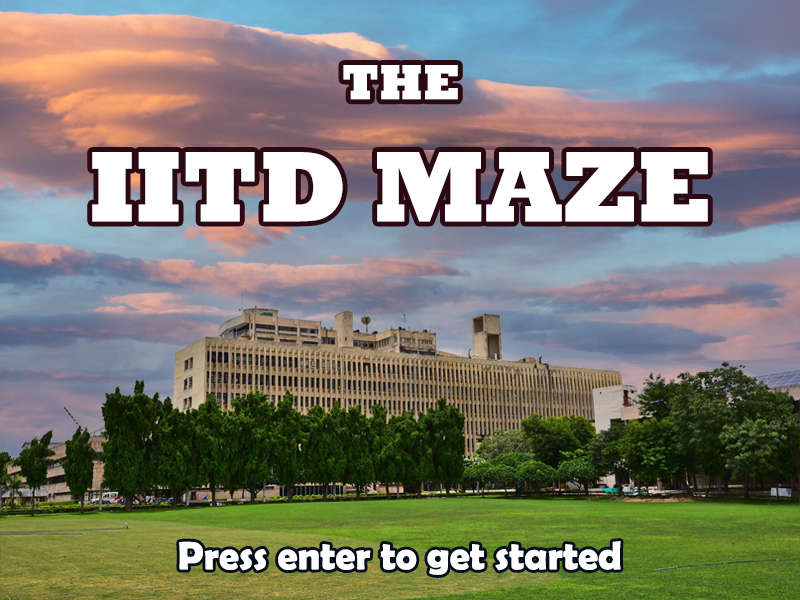
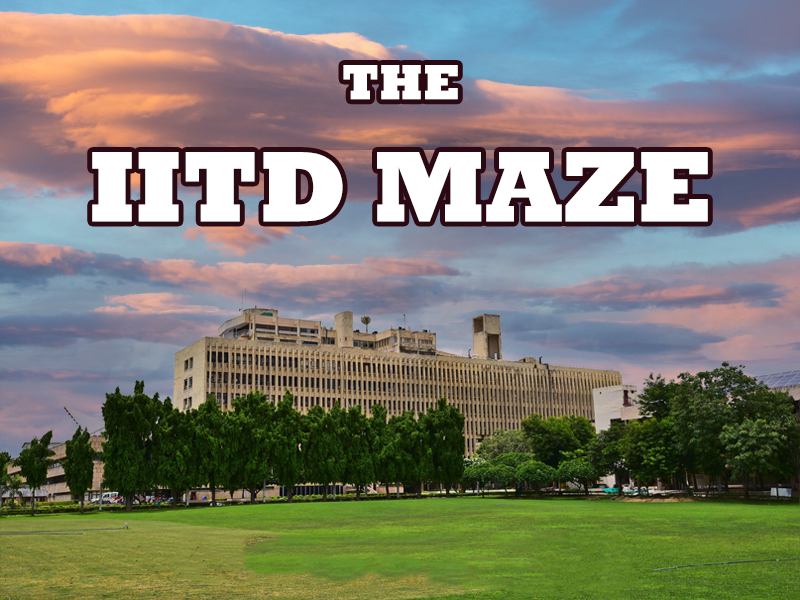
Updated info screens minor improvements

Changed region(s): [[0.2188, 0.87, 0.7812, 1.0]]

diff --git a/maze.cpp b/maze.cpp
@@ -92,7 +92,7 @@ ENetPeer *Maze::peer;
 
 SDL_Rect Maze::cam = {0, 0, gameW, gameH};
 
-SDL_Texture *w8page, *testing, *mazePage, *mazePage2, *instrPage, *infoPage, *gnrlPage;
+SDL_Texture *w8page, *testing, *mazePage, *mazePage2, *instrPage, *infoPage, *gnrlPage, *gnrlwithinfo;
 
 SDL_Rect strtsrc = {0, 0, gameW, gameH};
 
@@ -101,12 +101,11 @@ Tile *build_tiles[84][225];
 
 TTF_Font *abd, *blx, *krm, *prt;
 
-Mix_Chunk *yuluSound,*foodSound,*objSound;
+Mix_Chunk *yuluSound, *foodSound, *objSound;
 
 int game2state = 0;
 // Set number of stages
 int game2lastStage = 3;
-
 
 const char *playerHostel = "zanskar";
 int countFrames = 0;
@@ -245,6 +244,7 @@ void Maze::init(const char *title, int xpos, int ypos, int w, int h, bool fs)
     instrPage = Texture::LoadTexture("assets/general_image.png");
     infoPage = Texture::LoadTexture("assets/Info_Screen.png");
     gnrlPage = Texture::LoadTexture("assets/general_image.png");
+    gnrlwithinfo = Texture::LoadTexture("assets/gnrlwithinfo.png");
 
     // Reloading some more assets, not sure why this is required
     coin = Texture::LoadTexture("assets/coin.png");
@@ -258,10 +258,9 @@ void Maze::init(const char *title, int xpos, int ypos, int w, int h, bool fs)
     objSound = Mix_LoadWAV("sound/obj.wav");
     strtsrc = {0, 0, gameW, gameH};
 
-
     bgm = Mix_LoadMUS("sound/Waiting_Music.wav");
-    Mix_PlayMusic(bgm,-1);
-    Mix_VolumeMusic(MIX_MAX_VOLUME/4);
+    Mix_PlayMusic(bgm, -1);
+    Mix_VolumeMusic(MIX_MAX_VOLUME / 4);
 
     if (!am_i_server)
     {
@@ -354,6 +353,8 @@ void Maze::init(const char *title, int xpos, int ypos, int w, int h, bool fs)
             instrPgText.push_back("Once you are satisfied, press Enter to finish your attempt");
             instrPgText.push_back(questions[find1].first);
             instrPgText.push_back(questions[find2].first);
+            instrPgText.push_back("");
+            instrPgText.push_back("Press TAB to continue");
         }
         else if (gameMode == 2)
         {
@@ -393,7 +394,7 @@ void Maze::init(const char *title, int xpos, int ypos, int w, int h, bool fs)
     guard_vec[1] = &guard2;
     guard_vec[2] = &guard3;
     guard1.addComponent<PositionComponent>(182 * 16 * TileScale + 8 * TileScale, 16 * 16 * TileScale + 8 * TileScale);
-    //guard1.addComponent<PositionComponent>(167 * 16 * TileScale + 8 * TileScale, 6 * 16 * TileScale + 8 * TileScale);
+    // guard1.addComponent<PositionComponent>(167 * 16 * TileScale + 8 * TileScale, 6 * 16 * TileScale + 8 * TileScale);
     guard2.addComponent<PositionComponent>(64 * 16 * TileScale + 8 * TileScale, 32 * 16 * TileScale + 8 * TileScale);
     guard3.addComponent<PositionComponent>(87 * 16 * TileScale + 8 * TileScale, 46 * 16 * TileScale + 8 * TileScale);
     // guard1.getComponent<PositionComponent>().speed = 1;
@@ -431,8 +432,6 @@ void Maze::init(const char *title, int xpos, int ypos, int w, int h, bool fs)
 
     myState = 0;
     opState = 0;
-
-
 }
 
 float calcuatePoint()
@@ -486,10 +485,9 @@ void DisplayParameters(float stamina, float money, int x = 8 * gameW / 10, int y
     SDL_Rect bolt_dest = {x - 20 - 4, y - 4, 24, 24};
     SDL_Rect coin_dest = {x - 28, y + 25 - 8, 32, 32};
 
-    SDL_Texture *c = Texture::TextTexture(abd, std::to_string((int)(100*money)), 255, 255, 255);
-    SDL_Texture *s = Texture::TextTexture(abd, std::to_string((int)(100*stamina)), 255, 255, 255);
+    SDL_Texture *c = Texture::TextTexture(abd, std::to_string((int)(100 * money)), 255, 255, 255);
+    SDL_Texture *s = Texture::TextTexture(abd, std::to_string((int)(100 * stamina)), 255, 255, 255);
     int w, h;
-
 
     // icons
     Texture::Draw(bolt, bolt_src, bolt_dest, SDL_FLIP_NONE);
@@ -513,7 +511,6 @@ void DisplayParameters(float stamina, float money, int x = 8 * gameW / 10, int y
         SDL_Rect c_t1_dest = {x, y + 26, (16 * w) / h, 16};
         SDL_RenderCopy(Maze::renderer, c, NULL, &c_t1_dest);
     }
-
 }
 
 void DrawOverLayMap()
@@ -606,14 +603,14 @@ void Maze::handleEvents()
                 if (iit_bound[ypos][xpos] == 2)
                 {
                     // Yulu Stands
-                    Mix_PlayChannel(-1,yuluSound,0);
+                    Mix_PlayChannel(-1, yuluSound, 0);
                     std::cout << "ColYulu " << std::endl;
                     player1.getComponent<SpriteComponent>().hasyulu = true;
                 }
                 else if (iit_bound[ypos][xpos] == Loc["food"])
                 {
                     // Eating Shops
-                    Mix_PlayChannel(-1,foodSound,0);
+                    Mix_PlayChannel(-1, foodSound, 0);
 
                     std::cout << "ColEat " << std::endl;
                     player1.getComponent<SpriteComponent>().stamina = 1;
@@ -622,7 +619,7 @@ void Maze::handleEvents()
                 else if (iit_bound[ypos][xpos] == Loc[playerHostel] && (gameMode != 2 || Loc[playerHostel] != objectives[game2state].second))
                 {
                     // Eating in Mess
-                    Mix_PlayChannel(-1,foodSound,0);
+                    Mix_PlayChannel(-1, foodSound, 0);
 
                     std::cout << "ColEatMess " << std::endl;
                     player1.getComponent<SpriteComponent>().stamina = 1;
@@ -632,7 +629,7 @@ void Maze::handleEvents()
                 else if (gameMode == 2 && iit_bound[ypos][xpos] == objectives[game2state].second)
                 {
 
-                    Mix_PlayChannel(-1,objSound,0);
+                    Mix_PlayChannel(-1, objSound, 0);
 
                     // Game Mode 2 objectives
                     std::cout << "ColObjective " << std::endl;
@@ -660,7 +657,7 @@ void Maze::handleEvents()
                     std::cout << "ColYulu " << col << std::endl;
                     if (col)
                     {
-                        Mix_PlayChannel(-1,yuluSound,0);
+                        Mix_PlayChannel(-1, yuluSound, 0);
 
                         player1.getComponent<SpriteComponent>().hasyulu = false;
                     }
@@ -700,7 +697,7 @@ void Maze::recievePackets()
         switch (enet_event.type)
         {
         case ENET_EVENT_TYPE_RECEIVE:
-            //std::cout << "Hello  " << enet_event.packet->dataLength << std::endl;
+            // std::cout << "Hello  " << enet_event.packet->dataLength << std::endl;
             if (enet_event.packet->dataLength == 1)
             {
                 if (gameMode == 2)
@@ -719,8 +716,9 @@ void Maze::recievePackets()
                 player2.getComponent<SpriteComponent>().animated = true;
                 player2.getComponent<SpriteComponent>().speed = 100;
 
-                if (pgp->p2caught) {
-                    //std::cout << "Player Caught \n";
+                if (pgp->p2caught)
+                {
+                    // std::cout << "Player Caught \n";
                     if (player1.getComponent<SpriteComponent>().money > 200)
                     {
                         player1.getComponent<SpriteComponent>().money -= 200;
@@ -765,6 +763,8 @@ void Maze::recievePackets()
                     instrPgText.push_back("Once you are satisfied, press Enter to finish your attempt");
                     instrPgText.push_back(questions[find1].first);
                     instrPgText.push_back(questions[find2].first);
+                    instrPgText.push_back("");
+                    instrPgText.push_back("Press TAB to continue");
                 }
                 else if (pack_data->type == -2)
                 {
@@ -822,7 +822,7 @@ void Maze::recievePackets()
 void Maze::update()
 {
 
-    countFrames ++;
+    countFrames++;
     // Scrolling
 
     cam.x = player1.getComponent<PositionComponent>().position.x - gameW / 2;
@@ -921,7 +921,7 @@ void Maze::update()
     //         }
     //         else if (dist2 < dist1 && dist2 < 20000)
     //         {
-    //             guard_vec[i]->getComponent<SpriteComponent>().guardAngry = true;                
+    //             guard_vec[i]->getComponent<SpriteComponent>().guardAngry = true;
     //         }
     //         else
     //         {
@@ -929,7 +929,6 @@ void Maze::update()
     //         }
     //     }
     // }
-
 
     if (am_i_server)
     {
@@ -976,7 +975,7 @@ void Maze::update()
                 if (dist2 < 5000)
                 {
                     player2caught = true;
-                    
+
                     // if (player2.getComponent<SpriteComponent>().money > 200)
                     // {
                     //     player2.getComponent<SpriteComponent>().money -= 200;
@@ -990,7 +989,7 @@ void Maze::update()
                 }
                 else
                 {
-                    
+
                     Vector2D dirn = p2 - g;
                     if (dirn.x * dirn.x + dirn.y * dirn.y != 0)
                     {
@@ -1057,7 +1056,6 @@ void Maze::update()
         }
         packet_to_send.p2caught = player2caught;
         player2caught = false;
-        
 
         ENetPacket *packet = enet_packet_create(&packet_to_send, sizeof(packet_to_send), 0);
         enet_peer_send(peer, 0, packet);
@@ -1091,7 +1089,7 @@ void Maze::render()
         }
         else if (myState == 1)
         {
-            Texture::Draw(instrPage, strtsrc, strtsrc, SDL_FLIP_NONE);
+            Texture::Draw(gnrlwithinfo, strtsrc, strtsrc, SDL_FLIP_NONE);
             Texture::render_text(prt, instrPgText, 30, 255, 255, 255);
         }
         else if (opState == 0 || opState == 1)
@@ -1168,10 +1166,12 @@ void Maze::render()
             }
         }
     }
-    else if (gameMode == 2 && countFrames < 240) {
+    else if (gameMode == 2 && countFrames < 240)
+    {
         Texture::Draw(mazePage2, strtsrc, strtsrc, SDL_FLIP_NONE);
     }
-    else if (gameMode == 2 && countFrames < 480) {
+    else if (gameMode == 2 && countFrames < 480)
+    {
         Texture::Draw(gnrlPage, strtsrc, strtsrc, SDL_FLIP_NONE);
         Texture::Draw(infoPage, strtsrc, strtsrc, SDL_FLIP_NONE);
     }
